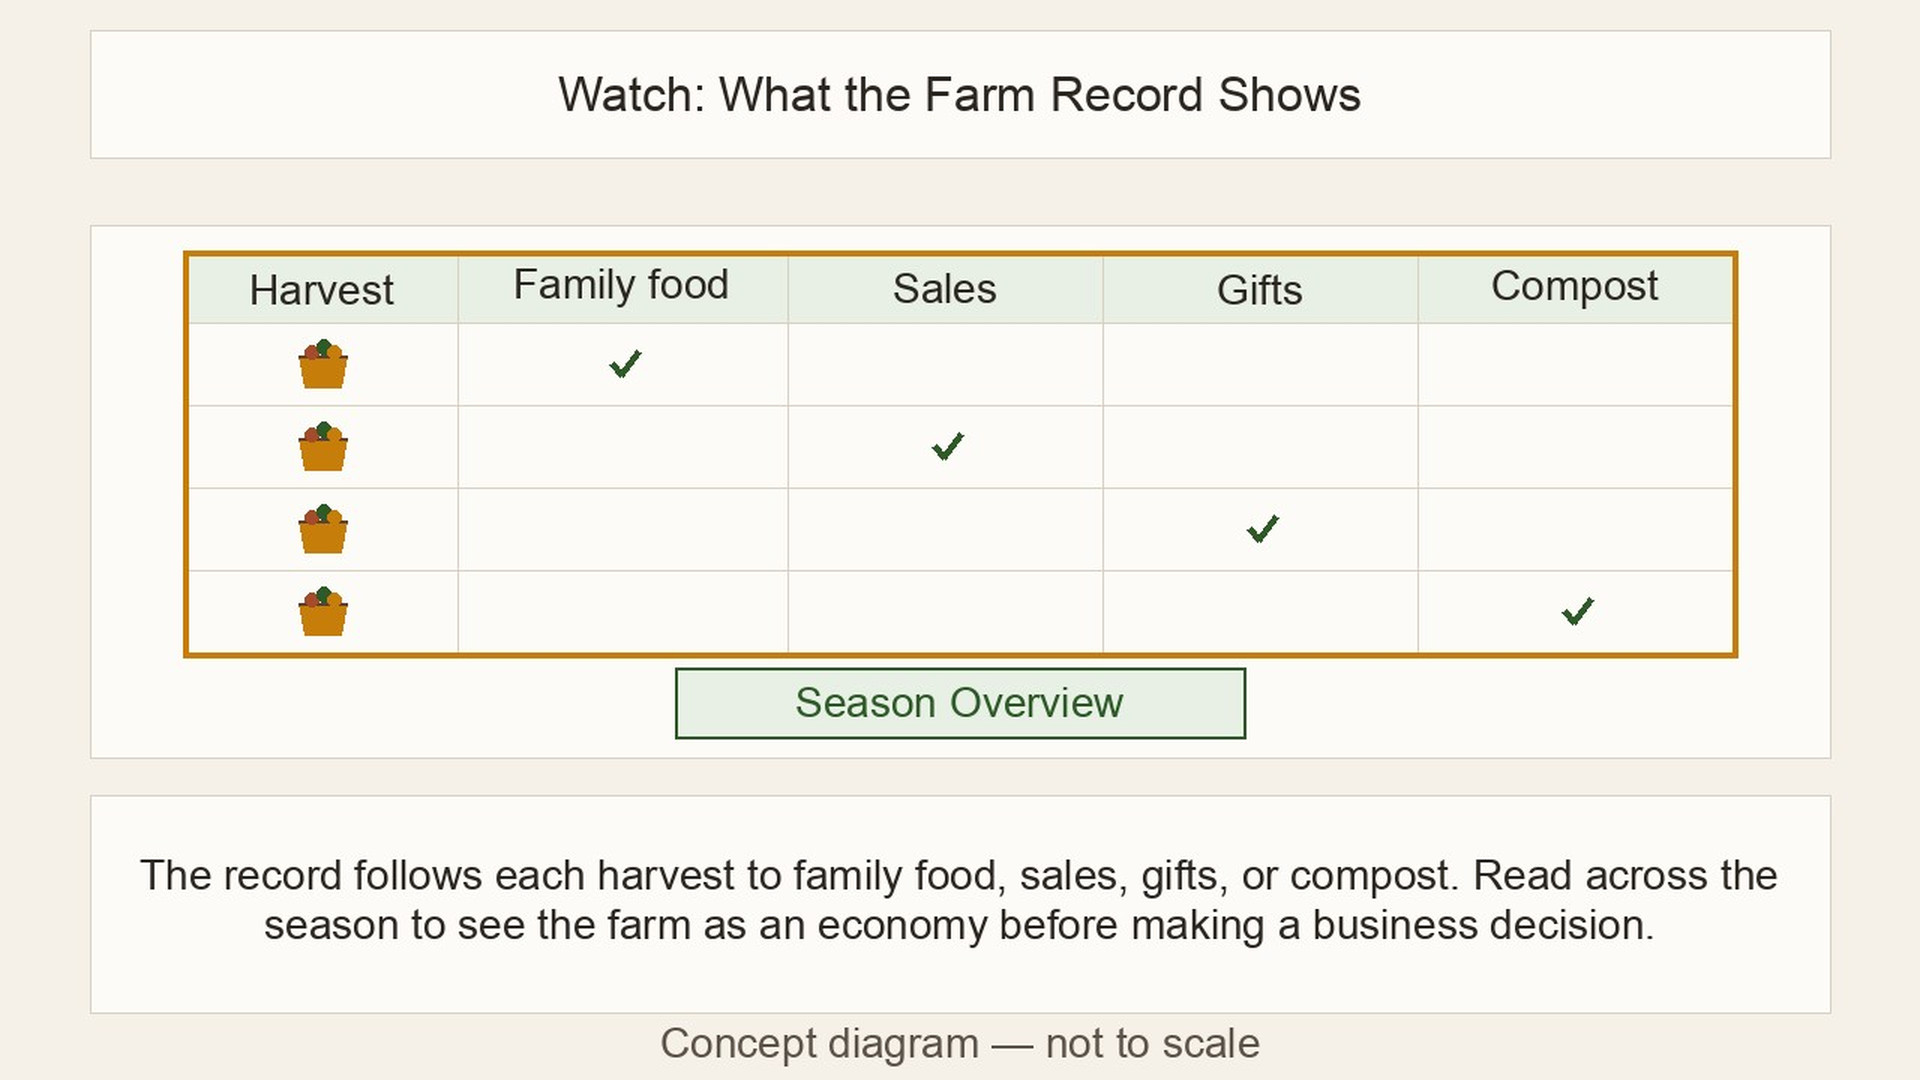
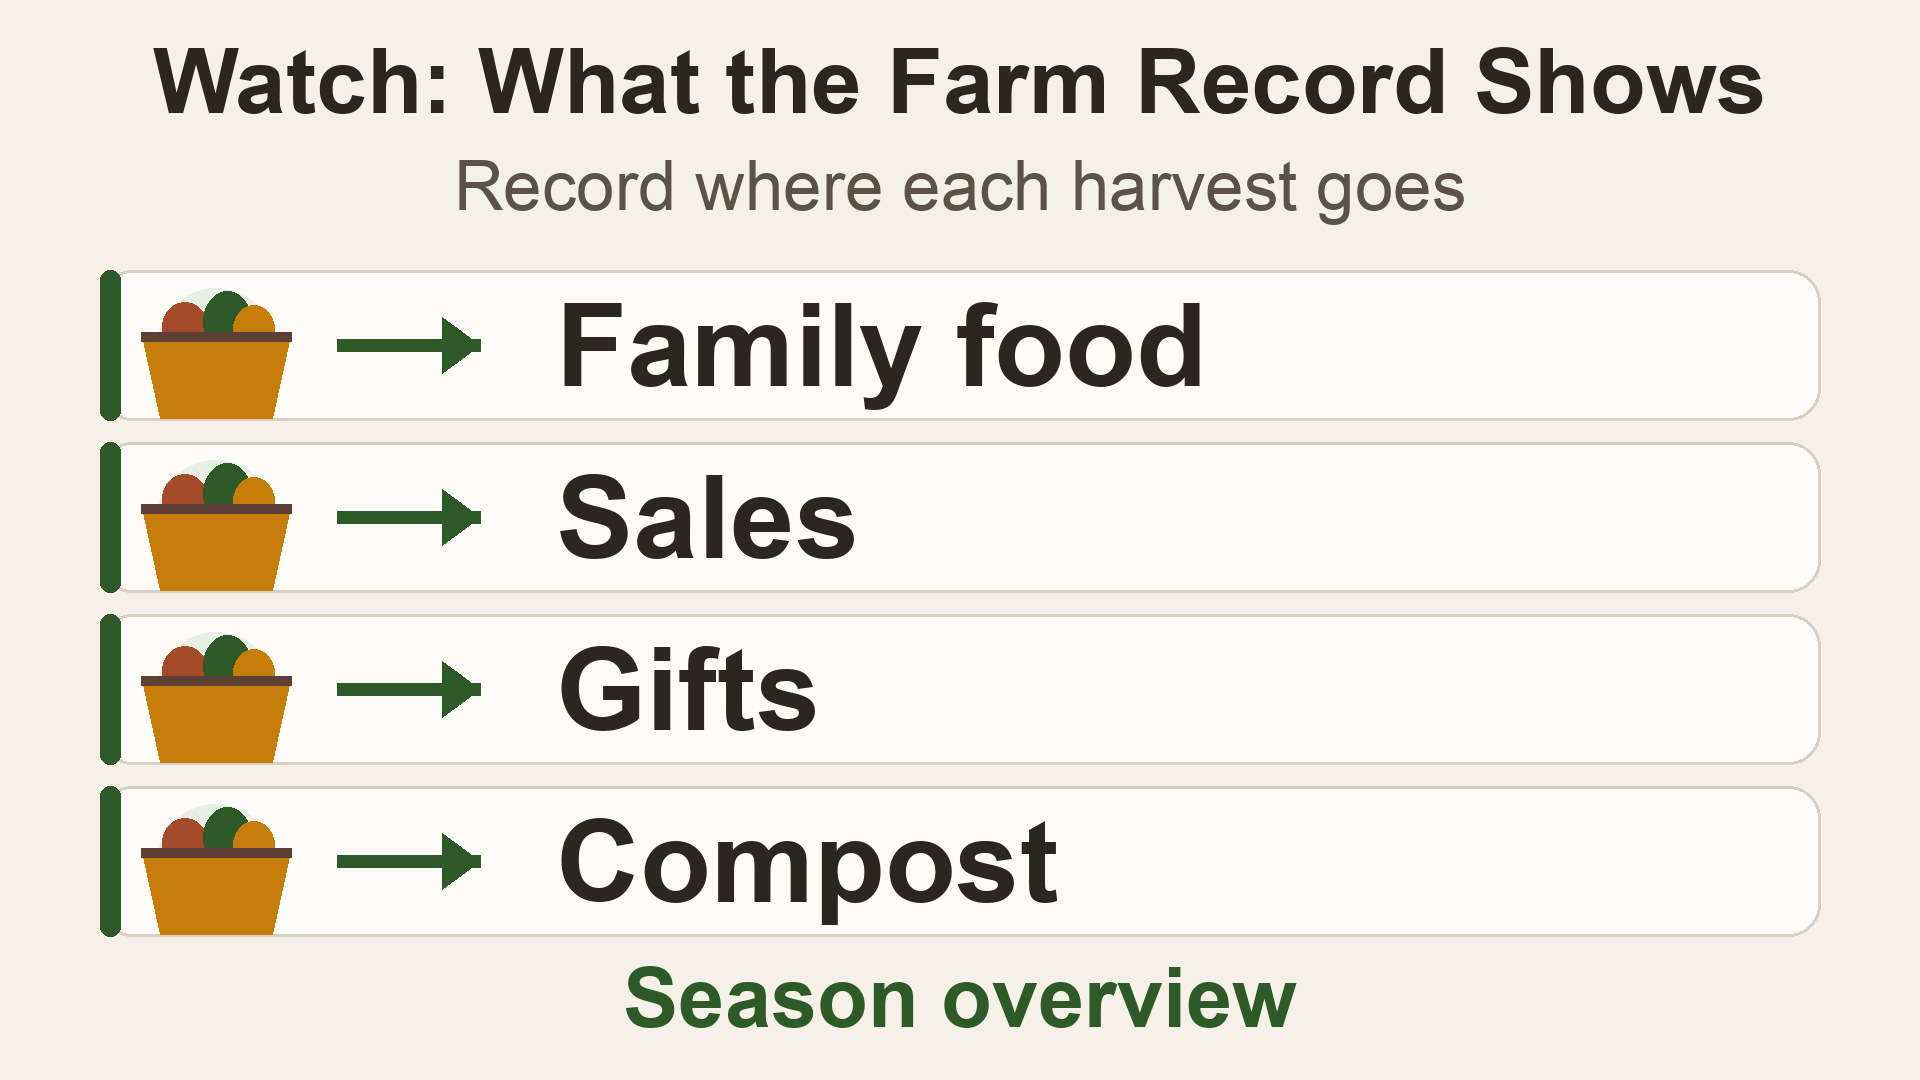
Improve Market record still for phone reading

Changed region(s): [[0.0312, 0.1528, 0.9375, 1.0], [0.25, 0.0306, 0.9375, 0.1222], [0.0625, 0.0306, 0.2188, 0.1222]]

diff --git a/app/sw.js/route.ts b/app/sw.js/route.ts
@@ -635,6 +635,21 @@ async function migrateSoilCoverStills() {
   await cache.put(marker, new Response('Improved soil-cover stills'));
 }
 
+// The Market record still now uses phone-size destination labels. A saved pack keeps
+// old bytes at this URL until explicitly cleared; invalidate only this picture so
+// the learner chooses when to download the replacement with their own airtime.
+async function migrateMarketRecordStill() {
+  const cache = await caches.open(COURSE_CACHE);
+  const marker = '/course-decks/market-community/en/.record-still-20260923';
+  if (await cache.match(marker)) return;
+  for (const request of await cache.keys()) {
+    if (new URL(request.url).pathname === '/course-decks/market-community/en/slide-04.jpg') {
+      await cache.delete(request);
+    }
+  }
+  await cache.put(marker, new Response('Phone-readable harvest destinations'));
+}
+
 self.addEventListener('activate', function (event) {
   event.waitUntil(
     caches.keys().then(function (keys) {
@@ -650,7 +665,7 @@ self.addEventListener('activate', function (event) {
           })
           .map(function (key) { return caches.delete(key); })
       );
-    }).then(migrateGuildNarration).then(migrateStudiesMedia).then(migrateChickenForagingMedia).then(migrateForestLayerMedia).then(migrateSoilObservationMedia).then(migrateForestEstablishmentMedia).then(migrateLandscapeSiteMapNarration).then(migrateForestMulchInfographic).then(migrateForestSheetMulchingMedia).then(migrateVegetableChoiceMedia).then(migrateUnapprovedStudyAnimations).then(migrateBeeHiveAndBlossomMedia).then(migrateGreywaterTeachingMedia).then(migrateWindbreakMedia).then(migrateSoilCoverStills).then(migrateHeldAuthoredStudyAnimations).then(migrateHeldWaterSwaleMedia).then(function () {
+    }).then(migrateGuildNarration).then(migrateStudiesMedia).then(migrateChickenForagingMedia).then(migrateForestLayerMedia).then(migrateSoilObservationMedia).then(migrateForestEstablishmentMedia).then(migrateLandscapeSiteMapNarration).then(migrateForestMulchInfographic).then(migrateForestSheetMulchingMedia).then(migrateVegetableChoiceMedia).then(migrateUnapprovedStudyAnimations).then(migrateBeeHiveAndBlossomMedia).then(migrateGreywaterTeachingMedia).then(migrateWindbreakMedia).then(migrateSoilCoverStills).then(migrateMarketRecordStill).then(migrateHeldAuthoredStudyAnimations).then(migrateHeldWaterSwaleMedia).then(function () {
       // Take control of already-open tabs so this version's fetch handler
       // (and therefore network-first HTML) runs without needing a reload first.
       return self.clients.claim();

diff --git a/tests/studies-media-migration.test.ts b/tests/studies-media-migration.test.ts
@@ -2,6 +2,37 @@ import test from 'node:test';
 import assert from 'node:assert/strict';
 import { readFileSync } from 'node:fs';
 
+test('a saved Market record gets its clearer still without discarding other downloaded lessons', async () => {
+  const source = readFileSync(new URL('../app/sw.js/route.ts', import.meta.url), 'utf8');
+  const body = source.match(/async function migrateMarketRecordStill\(\) \{([\s\S]*?)\n\}/)?.[1];
+  assert.ok(body);
+  assert.match(source, /then\(migrateMarketRecordStill\)\.then/);
+
+  const origin = 'https://field.test';
+  const oldStill = new Request(origin + '/course-decks/market-community/en/slide-04.jpg?cached=1');
+  const otherSlide = new Request(origin + '/course-decks/market-community/en/slide-05.jpg');
+  const otherModule = new Request(origin + '/course-decks/food-forest/en/slide-04.jpg');
+  const rows = new Map<string, Response>([
+    [oldStill.url, new Response('small labels')],
+    [otherSlide.url, new Response('saved')],
+    [otherModule.url, new Response('saved')],
+  ]);
+  const cache = {
+    match: async (key: string) => rows.get(origin + key),
+    keys: async () => [...rows.keys()].map(url => new Request(url)),
+    delete: async (request: Request) => rows.delete(request.url),
+    put: async (key: string, response: Response) => { rows.set(origin + key, response); },
+  };
+  const run = new Function('caches', 'COURSE_CACHE', 'Response', 'return (async () => {' + body + '})()');
+  await run({ open: async () => cache }, 'imbewu-course-v1', Response);
+  assert.equal(rows.has(oldStill.url), false);
+  assert.equal(rows.has(otherSlide.url), true);
+  assert.equal(rows.has(otherModule.url), true);
+  assert.equal(rows.has(origin + '/course-decks/market-community/en/.record-still-20260923'), true);
+  await run({ open: async () => cache }, 'imbewu-course-v1', Response);
+  assert.equal(rows.has(otherSlide.url), true);
+});
+
 test('updated Studies cannot pair old downloaded speech with corrected teaching; unrelated files survive', async () => {
   const source = readFileSync(new URL('../app/sw.js/route.ts', import.meta.url), 'utf8');
   const body = source.match(/async function migrateStudiesMedia\(\) \{([\s\S]*?)\n\}/)?.[1];

diff --git a/lib/course-asset-sizes.ts b/lib/course-asset-sizes.ts
@@ -457,7 +457,7 @@ export const COURSE_ASSET_SIZES: Readonly<Record<string, number>> = Object.freez
   '/course-decks/market-community/en/slide-01.jpg': 409619,
   '/course-decks/market-community/en/slide-02.jpg': 151849,
   '/course-decks/market-community/en/slide-03.jpg': 127111,
-  '/course-decks/market-community/en/slide-04.jpg': 189442,
+  '/course-decks/market-community/en/slide-04.jpg': 224944,
   '/course-decks/market-community/en/slide-05.jpg': 505128,
   '/course-decks/market-community/en/slide-06.jpg': 133791,
   '/course-decks/market-community/en/slide-07.jpg': 802371,

diff --git a/docs/media/studies-animation-quality/render-market-record-still.py b/docs/media/studies-animation-quality/render-market-record-still.py
@@ -1,0 +1,82 @@
+#!/usr/bin/env python3
+"""Render the static Market L1 record still with labels legible at phone width.
+
+The source diagram's five-column table and long caption became unreadable when
+the whole 16:9 slide was fitted into a 390 px learner player. The spoken script
+already explains the season review; this still keeps the four recorded harvest
+destinations prominent without inventing an amount or outcome.
+"""
+
+from pathlib import Path
+from PIL import Image, ImageDraw, ImageFont
+
+
+ROOT = Path(__file__).resolve().parents[3]
+OUTPUT = ROOT / "public/course-decks/market-community/en/slide-04.jpg"
+WIDTH, HEIGHT = 1920, 1080
+
+CREAM = (245, 241, 232)
+CARD = (253, 251, 247)
+TEXT = (44, 38, 32)
+MUTED = (92, 82, 72)
+FOREST = (45, 90, 39)
+PALE_GREEN = (232, 240, 229)
+SOIL = (92, 64, 51)
+GOLD = (198, 125, 10)
+RUST = (166, 75, 42)
+BORDER = (217, 208, 193)
+
+FONT_REGULAR = Path("/System/Library/Fonts/Supplemental/Arial.ttf")
+FONT_BOLD = Path("/System/Library/Fonts/Supplemental/Arial Bold.ttf")
+if not FONT_BOLD.exists():
+    FONT_BOLD = Path("/usr/share/fonts/truetype/dejavu/DejaVuSans-Bold.ttf")
+if not FONT_REGULAR.exists():
+    FONT_REGULAR = Path("/usr/share/fonts/truetype/dejavu/DejaVuSans.ttf")
+
+
+def font(size: int, bold: bool = False) -> ImageFont.FreeTypeFont:
+    return ImageFont.truetype(FONT_BOLD if bold else FONT_REGULAR, size)
+
+
+def centered(draw: ImageDraw.ImageDraw, text: str, y: int, size: int,
+             fill: tuple[int, int, int], bold: bool = False) -> None:
+    f = font(size, bold)
+    left, top, right, bottom = draw.textbbox((0, 0), text, font=f)
+    draw.text(((WIDTH - (right - left)) / 2 - left, y - top), text, font=f, fill=fill)
+
+
+def basket(draw: ImageDraw.ImageDraw, cx: int, cy: int) -> None:
+    # Reuse the existing lesson's simple basket motif at a larger phone-safe size.
+    draw.ellipse((cx - 54, cy - 48, cx - 9, cy + 1), fill=RUST)
+    draw.ellipse((cx - 13, cy - 59, cx + 35, cy + 2), fill=FOREST)
+    draw.ellipse((cx + 17, cy - 45, cx + 58, cy + 3), fill=GOLD)
+    draw.polygon([(cx - 74, cy - 14), (cx + 74, cy - 14),
+                  (cx + 56, cy + 68), (cx - 56, cy + 68)], fill=GOLD)
+    draw.line((cx - 75, cy - 14, cx + 75, cy - 14), fill=SOIL, width=10)
+
+
+def main() -> None:
+    image = Image.new("RGB", (WIDTH, HEIGHT), CREAM)
+    draw = ImageDraw.Draw(image)
+
+    centered(draw, "Watch: What the Farm Record Shows", 47, 91, TEXT, bold=True)
+    centered(draw, "Record where each harvest goes", 160, 69, MUTED)
+
+    labels = ("Family food", "Sales", "Gifts", "Compost")
+    y_positions = (270, 442, 614, 786)
+    for label, y in zip(labels, y_positions):
+        draw.rounded_rectangle((100, y, 1820, y + 150), radius=32,
+                               fill=CARD, outline=BORDER, width=3)
+        draw.rounded_rectangle((100, y, 120, y + 150), radius=10, fill=FOREST)
+        draw.ellipse((157, y + 18, 274, y + 135), fill=PALE_GREEN)
+        basket(draw, 216, y + 80)
+        draw.line((337, y + 75, 480, y + 75), fill=FOREST, width=13)
+        draw.polygon(((480, y + 75), (442, y + 47), (442, y + 103)), fill=FOREST)
+        draw.text((556, y + 10), label, font=font(116, bold=True), fill=TEXT)
+
+    centered(draw, "Season overview", 966, 83, FOREST, bold=True)
+    image.save(OUTPUT, format="JPEG", quality=93, subsampling=0, optimize=True)
+
+
+if __name__ == "__main__":
+    main()

diff --git a/docs/studies-review-2026-09-20/PROGRAMME-MEDIA-MATRIX.md b/docs/studies-review-2026-09-20/PROGRAMME-MEDIA-MATRIX.md
@@ -6,7 +6,7 @@ Current player state follows `lib/course-deck.ts` and `animationUrls()`. A regis
 
 | # | Module / lesson / slide | Slide title | Current player | Registered video path (exact) | Held local source / status and reason |
 |---:|---|---|---|---|---|
-| 1 | Market Gardening & Community · `market-community-l1` · slide 4 | Watch: What the Farm Record Shows | Still only ([slide still](../../public/course-decks/market-community/en/slide-04.jpg)); [current L1 check](../media/studies-animation-quality/market-l1-current-lesson-check.md) | — | Deployed 390px and saved-pack offline still/audio passed. Table labels are small at phone fit; full-size link present. The withdrawn locally drawn film remains outside the player pending Rory's visual clearance. |
+| 1 | Market Gardening & Community · `market-community-l1` · slide 4 | Watch: What the Farm Record Shows | Still only ([slide still](../../public/course-decks/market-community/en/slide-04.jpg)); [L1 check and replacement](../media/studies-animation-quality/market-l1-current-lesson-check.md) | — | A new static four-destination still addresses the old table's phone-size labels; locally inspected at 272 CSS px within a 390px viewport, with deployed/offline verification pending. English audio unchanged. The withdrawn locally drawn film remains outside the player pending Rory's visual clearance. |
 | 2 | Market Gardening & Community · `market-community-l2` · slide 9 | Watch: Where Surplus Can Go | Still only ([slide still](../../public/course-decks/market-community/en/slide-09.jpg)); [current L2 check](../media/studies-animation-quality/market-l2-current-lesson-check.md) | — | Deployed 390px and saved-pack offline still/audio passed. Route labels are small at phone fit; full-size link present. The withdrawn locally drawn film remains outside the player pending Rory's visual clearance. |
 | 3 | Market Gardening & Community · `market-community-l3` · slide 14 | Watch: How Neighbours Strengthen a Harvest | Still only ([slide still](../../public/course-decks/market-community/en/slide-14.jpg)); [current L3 check](../media/studies-animation-quality/market-l3-current-lesson-check.md) | — | The existing network still/English audio remain. Small labels have a full-size link. The withdrawn locally drawn movie remains outside the player pending Rory's visual clearance. |
 | 4 | Market Gardening & Community · `market-community-l3` · slide 15 | Save Seed Together | Video registered; [current L3 check](../media/studies-animation-quality/market-l3-current-lesson-check.md) | [public/course-animations/market-community/flow-seed-sharing.mp4](../../public/course-animations/market-community/flow-seed-sharing.mp4) | The eight-second Flow handover played at 390px and offline. It does not verify identity, viability or legal permission for any seed variety; protected seed-sharing text needs a source-backed qualification. |

diff --git a/docs/media/studies-animation-quality/COVERAGE.md b/docs/media/studies-animation-quality/COVERAGE.md
@@ -64,7 +64,7 @@ physical-mechanism review; neither is a reason to place another order.
 
 | # | Module | Lesson ID | Slide | Title | Registered `src` | Planned treatment / hold |
 | ---: | --- | --- | ---: | --- | --- | --- |
-| 1 | Market Gardening & Community | market-community-l1 | 4 | Watch: What the Farm Record Shows | — | [Current L1 check](market-l1-current-lesson-check.md): existing still/audio played in the deployed 390px lesson and from the saved pack offline. Table labels are small at phone fit but the full-size still link is present. The locally drawn film remains held pending Rory's visual clearance; a new Flow record form would need legible, consistent destinations. |
+| 1 | Market Gardening & Community | market-community-l1 | 4 | Watch: What the Farm Record Shows | — | [L1 check and new static still](market-l1-current-lesson-check.md): the five-column table failed phone readability; a large-label four-destination still is locally inspected and awaits deployed/offline verification. English narration remains unchanged. The locally drawn film stays held pending Rory's visual clearance; no Flow request. |
 | 2 | Market Gardening & Community | market-community-l2 | 9 | Watch: Where Surplus Can Go | — | [Current L2 check](market-l2-current-lesson-check.md): still/audio reached the end of the deployed 390px lesson and reopened from the saved pack offline. The route labels are small at phone fit; full-size link present. The locally drawn film remains held pending Rory's visual clearance, with no justified new Flow prompt. |
 | 3 | Market Gardening & Community | market-community-l3 | 14 | Watch: How Neighbours Strengthen a Harvest | — | [Current L3 check](market-l3-current-lesson-check.md): still-only network view and English audio; the locally drawn film remains held pending Rory's visual clearance. Small labels use the full-size still link. |
 | 4 | Market Gardening & Community | market-community-l3 | 15 | Save Seed Together | `flow-seed-sharing` | [Current L3 check](market-l3-current-lesson-check.md): existing eight-second Flow handover played in full motion at 390px and from the saved offline pack. It cannot verify seed identity, viability or legal permission. Generic seed-sharing text has a protected, source-backed rights qualification pending. |

diff --git a/docs/media/studies-animation-quality/market-l1-current-lesson-check.md b/docs/media/studies-animation-quality/market-l1-current-lesson-check.md
@@ -1,6 +1,30 @@
 # Market Gardening L1 English lesson check — 23 September 2026
 
-**Status:** The five-slide English player, current stills and saved-pack offline
+## Slide 4 phone-readable still replacement — 23 September
+
+The deployed check below identified a concrete access gap: the five-column
+record table shrank its destination labels and lower caption at phone fit. A
+new **static** 1920 × 1080 still now keeps the four source destinations as
+large separate rows: Family food, Sales, Gifts and Compost. The long season
+explanation remains in the unchanged English narration and readable lesson
+text; the still says “Season overview.” It introduces no amount, date, yield,
+price, customer or promised outcome. The existing code-drawn animation is
+still held, and no Flow request was made.
+
+The deterministic source is `render-market-record-still.py`, and the local
+asset is `public/course-decks/market-community/en/slide-04.jpg` (SHA-256
[1 lines of base64/hex data omitted]
+The rendered JPEG was inspected at full size and at the actual 272 CSS px
+image width inside a 390 px browser viewport. All four destination labels
+remain visually readable at that width. This is local visual QA pending the
+exact deployed preview and offline migration check; it is not farmer,
+learner, practitioner, human or isiZulu approval. A one-time service-worker
+migration clears only the old saved slide-4 still so a learner can choose when
+to download the improved file, leaving the rest of the pack intact.
+
+## Earlier deployed check — before the slide 4 replacement
+
+**Status at this earlier checkpoint:** The five-slide English player, then-current stills and saved-pack offline
 path were checked. No new Flow request, animation registration, protected lesson
 or quiz edit, narration edit, species, farming figure or `PLAN_VERSION` change
 was made. This is a technical check, not Rory, farmer, learner, practitioner or

diff --git a/docs/studies-review-2026-09-20/ACTIVE-CONTINUATION.md b/docs/studies-review-2026-09-20/ACTIVE-CONTINUATION.md
@@ -1,5 +1,19 @@
 # Active Studies continuation — 22 September 2026
 
+## Market Gardening L1 static slide 4 improvement (23 September)
+
+The prior 390px check found that slide 4's five-column record table was too
+small to read at phone fit. A new deterministic **static** still makes Family
+food, Sales, Gifts and Compost separate large-label rows. Its 272 CSS px
+browser view was inspected in a 390px viewport; the source lesson and English
+narration are unchanged. The one-time course-cache migration invalidates only
+the old saved slide-4 JPEG and preserves the other downloaded lessons. This
+branch asset still needs exact deployed and offline verification before the
+improvement is called released. The [L1 check](../media/studies-animation-quality/market-l1-current-lesson-check.md)
+records the source and local visual evidence. No Flow credit or protected edit
+was used; code-drawn motion remains held for Rory's visual clearance. Farm
+Finance is excluded.
+
 ## Vegetables L1/L4 current English media check (23 September)
 
 The stable 390px Student preview now uses stills and English MP3s, with no
